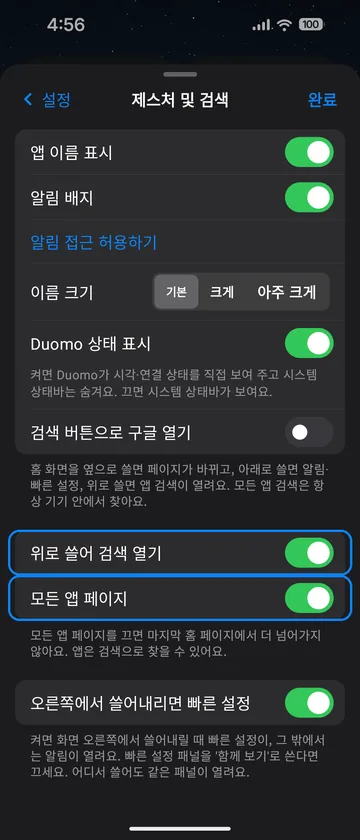
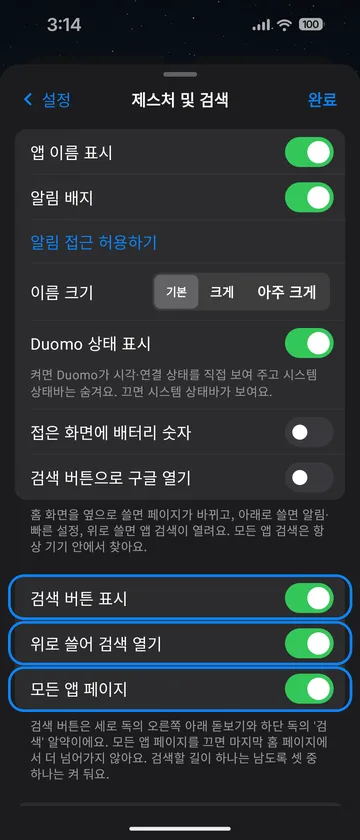
FAQ 1.0.11 기준 정리, 이전 업데이트 접기

Changed region(s): [[0.0, 0.4952, 1.0, 0.9286], [0.1222, 0.0, 0.2444, 0.0619]]

diff --git a/index.html b/index.html
@@ -190,6 +190,10 @@
   .update .ask a { color: var(--accent-soft); }
   /* 펼친 화면(가로) + 접은 화면(세로) 한 쌍: 높이를 맞춰 나란히 */
   .shots.pair { grid-template-columns: 3.1fr 1fr; align-items: end; }
+  .older-updates { margin-top: 14px; }
+  .older-updates > summary { list-style: none; cursor: pointer; text-align: center; padding: 14px; font-size: 15px; font-weight: 600; color: var(--accent-soft); }
+  .older-updates > summary::-webkit-details-marker { display: none; }
+  .older-updates[open] > summary { color: var(--muted); }
   .faq-group { max-width: 920px; margin: 34px 0 0; font-size: 15px; font-weight: 700; color: var(--muted); letter-spacing: .02em; }
   .faq-group + details.update { margin-top: 12px; }
   .update.faq summary .title { white-space: normal; font-size: clamp(15px, 2vw, 18px); }
@@ -552,6 +556,8 @@
         </div>
       </details>
 
+      <details class="older-updates">
+        <summary><span data-l="ko">이전 업데이트 보기 (1.0.2 ~ 1.0.7)</span><span data-l="en">Earlier updates (1.0.2 – 1.0.7)</span></summary>
       <details class="update" id="v1-0-7">
         <summary><span class="title"><span data-l="ko">독 폴더 · 왼쪽 독, 모든 앱 켜고 끄기</span><span data-l="en">Dock folders, left dock, the All Apps page on or off</span></span><span class="date"><span data-l="ko">26년 10월 2일</span><span data-l="en">Oct 2, 2026</span></span></summary>
         <div class="update-body">
@@ -581,7 +587,7 @@
         </div>
         </div>
       </details>
-      <details class="update" id="v1-0-6">
+        <details class="update" id="v1-0-6">
         <summary><span class="title"><span data-l="ko">홈에서 바로 간격 조절, 둘러보기에서 독 위치 고르기</span><span data-l="en">Adjust spacing right on Home, pick the dock position in the tour</span></span><span class="date"><span data-l="ko">26년 10월 2일</span><span data-l="en">Oct 2, 2026</span></span></summary>
         <div class="update-body">
         <p class="update-meta"><span class="ver">1.0.6</span><span><span data-l="ko">2026년 10월 2일</span><span data-l="en">October 2, 2026</span></span><span class="status"><span data-l="ko">테스터에게 배포됨</span><span data-l="en">Rolled out to testers</span></span></p>
@@ -608,7 +614,7 @@
         </div>
       </details>
 
-      <details class="update" id="v1-0-5">
+        <details class="update" id="v1-0-5">
         <summary><span class="title"><span data-l="ko">알림 숫자 배지, 사라지던 위젯 수정</span><span data-l="en">Notification count badges, disappearing widgets fixed</span></span><span class="date"><span data-l="ko">26년 10월 1일</span><span data-l="en">Oct 1, 2026</span></span></summary>
         <div class="update-body">
         <p class="update-meta"><span class="ver">1.0.5</span><span><span data-l="ko">2026년 10월 1일</span><span data-l="en">October 1, 2026</span></span><span class="status"><span data-l="ko">테스터에게 배포됨</span><span data-l="en">Rolled out to testers</span></span></p>
@@ -627,7 +633,7 @@
         </div>
       </details>
 
-      <details class="update" id="v1-0-4">
+        <details class="update" id="v1-0-4">
         <summary><span class="title"><span data-l="ko">접은 화면 · 펼친 화면 배치, 함께 또는 따로</span><span data-l="en">Folded and unfolded layouts, shared or separate</span></span><span class="date"><span data-l="ko">26년 10월 1일</span><span data-l="en">Oct 1, 2026</span></span></summary>
         <div class="update-body">
         <p class="update-meta"><span class="ver">1.0.4</span><span><span data-l="ko">2026년 10월 1일</span><span data-l="en">October 1, 2026</span></span><span class="status"><span data-l="ko">테스터에게 배포됨</span><span data-l="en">Rolled out to testers</span></span></p>
@@ -650,7 +656,7 @@
         </div>
       </details>
 
-      <details class="update" id="v1-0-3">
+        <details class="update" id="v1-0-3">
         <summary><span class="title"><span data-l="ko">펼친 화면 하단 독, 폴더에 앱 검색해서 넣기</span><span data-l="en">Bottom dock unfolded, search to add apps to folders</span></span><span class="date"><span data-l="ko">26년 10월 1일</span><span data-l="en">Oct 1, 2026</span></span></summary>
         <div class="update-body">
         <p class="update-meta"><span class="ver">1.0.3</span><span><span data-l="ko">2026년 10월 1일</span><span data-l="en">October 1, 2026</span></span><span class="status"><span data-l="ko">테스터에게 배포됨</span><span data-l="en">Rolled out to testers</span></span></p>
@@ -671,7 +677,7 @@
         </div>
       </details>
 
-      <details class="update" id="v1-0-2">
+        <details class="update" id="v1-0-2">
         <summary><span class="title"><span data-l="ko">펼친 화면 간격과 독을 다시 맞췄어요</span><span data-l="en">Reworked unfolded spacing and the dock</span></span><span class="date"><span data-l="ko">26년 10월 1일</span><span data-l="en">Oct 1, 2026</span></span></summary>
         <div class="update-body">
         <p class="update-meta"><span class="ver">1.0.2</span><span><span data-l="ko">2026년 10월 1일</span><span data-l="en">October 1, 2026</span></span><span class="status"><span data-l="ko">테스터에게 배포됨</span><span data-l="en">Rolled out to testers</span></span></p>
@@ -687,6 +693,7 @@
         </ul>
 
         </div>
+      </details>
       </details>
     </div>
   </section>
@@ -728,7 +735,7 @@
       <details class="update faq" id="faq-resize-widget">
         <summary><span class="title"><span data-l="ko">위젯 크기는 어떻게 바꾸나요?</span><span data-l="en">How do I resize a widget?</span></span></summary>
         <div class="update-body">
-          <p><span data-l="ko">위젯을 길게 눌렀다 떼면 메뉴가 나와요. <b>크기 및 위치</b>에서 작게·중간·크게·전체를 고르거나, <b>홈 화면에서 크기 조절</b>을 눌러 모서리를 끌어 주세요.</span><span data-l="en">Touch and hold the widget, then release to open its menu. In <b>Size &amp; position</b>, pick a preset size or tap <b>Resize on Home Screen</b> and drag the corner.</span></p>
+          <p><span data-l="ko">위젯을 길게 눌렀다 떼면 메뉴가 나와요. <b>크기 및 위치</b>에서 작게·중간·크게·전체를 고르거나, <b>홈 화면에서 크기 조절</b>을 눌러 모서리를 끌어 주세요. 1×1 위젯은 1.0.10부터 앱 아이콘과 같은 크기로 나와요.</span><span data-l="en">Touch and hold the widget, then release to open its menu. In <b>Size &amp; position</b>, pick a preset size or tap <b>Resize on Home Screen</b> and drag the corner. From 1.0.10, 1×1 widgets are drawn at app icon size.</span></p>
           <figure class="faq-shot"><img src="assets/faq/faq-resize-widget.webp" width="360" height="840" loading="lazy" alt=""><figcaption><span data-l="ko">위젯 크기 바꾸기</span><span data-l="en">Resizing a widget</span></figcaption></figure>
         </div>
       </details>
@@ -737,6 +744,12 @@
         <div class="update-body">
           <p><span data-l="ko">돼요(1.0.8부터). 위젯을 눌러 사진을 여러 장 고르고, 다시 눌러 주기(1시간마다 · 하루마다 · 홈에 올 때마다)를 정하면 자동으로 바뀌어요. 순서는 고른 순서대로예요.</span><span data-l="en">Yes (from 1.0.8). Tap the widget and pick several photos, then tap it again to choose how often they change: every hour, every day, or each time you come home. They rotate in the order you picked.</span></p>
           <figure class="faq-shot"><img src="assets/faq/faq-photo-widget.webp" width="360" height="840" loading="lazy" alt=""><figcaption><span data-l="ko">사진 여러 장 · 자동 변경</span><span data-l="en">Several photos, auto change</span></figcaption></figure>
+        </div>
+      </details>
+      <details class="update faq" id="faq-widget-missing">
+        <summary><span class="title"><span data-l="ko">찾는 위젯이 목록에 없어요. (예: 버즈 위젯)</span><span data-l="en">A widget I want isn't in the list (e.g. the Buds widget).</span></span></summary>
+        <div class="update-body">
+          <p><span data-l="ko">1.0.10부터 위젯 검색에 한글로 써도 영어 이름 위젯이 함께 나와요(예: 버즈 → Buds). Duomo는 안드로이드가 주는 위젯 목록을 걸러 내지 않아서, 그래도 안 보이면 그 앱(주로 삼성 기본 앱)이 다른 런처에는 위젯을 내주지 않는 경우예요.</span><span data-l="en">From 1.0.10, searching in Korean also finds widgets with English names (e.g. 버즈 → Buds). Duomo doesn't filter the widget list Android provides, so if it still isn't there, that app (often a Samsung app) doesn't offer the widget to other launchers.</span></p>
         </div>
       </details>
       <details class="update faq" id="faq-widget-reconnect">
@@ -756,7 +769,7 @@
       <details class="update faq" id="faq-dock">
         <summary><span class="title"><span data-l="ko">독을 왼쪽이나 아래에 둘 수 있나요? 독에 폴더는요?</span><span data-l="en">Can I move the dock to the left or bottom? Folders in the dock?</span></span></summary>
         <div class="update-body">
-          <p><span data-l="ko">설정 › 홈 화면 › 도크에서 위치를 고를 수 있어요. 폴더를 독으로 끌어다 놓으면 독에도 폴더를 둘 수 있어요.</span><span data-l="en">Choose the position under Settings › Home Screen › Dock. Drag a folder onto the dock to keep it there.</span></p>
+          <p><span data-l="ko">설정 › 홈 화면 › 도크에서 위치를 고를 수 있어요. 폴더를 독으로 끌어다 놓으면 독에도 폴더를 둘 수 있어요. 폭이 넓은 커버 화면(폴드8 등)에서 하단 독을 쓸 때는 설정 › 홈 화면 › 도크의 <b>화면 폭 전체 쓰기</b>로 격자를 끝까지 넓힐 수 있어요.</span><span data-l="en">Choose the position under Settings › Home Screen › Dock. Drag a folder onto the dock to keep it there. On wide cover screens (e.g. Fold8) with the bottom dock, <b>Use the full screen width</b> under Settings › Home screen › Dock widens the grid to the edges.</span></p>
           <figure class="faq-shot"><img src="assets/faq/shot-dock.webp" width="360" height="840" loading="lazy" alt=""><figcaption><span data-l="ko">설정 › 홈 화면 레이아웃 › 도크</span><span data-l="en">Settings › Home Screen › Dock</span></figcaption></figure>
         </div>
       </details>
@@ -765,6 +778,12 @@
         <div class="update-body">
           <p><span data-l="ko">기본 설정은 접은 화면과 펼친 화면이 같은 배치를 함께 쓰는 방식이에요. 따로 쓰려면 설정 › 홈 화면 › <b>화면마다 따로 쓰기</b>를 골라 주세요. (위젯과 폴더는 따로 쓰기에서도 함께 써요.)</span><span data-l="en">By default the cover and unfolded screens share one layout. To keep them apart, choose <b>Keep separate layouts</b> under Settings › Home Screen. (Widgets and folders are still shared.)</span></p>
           <figure class="faq-shot"><img src="assets/faq/shot-layout-sync.webp" width="360" height="840" loading="lazy" alt=""><figcaption><span data-l="ko">설정 › 홈 화면 레이아웃</span><span data-l="en">Settings › Home Screen</span></figcaption></figure>
+        </div>
+      </details>
+      <details class="update faq" id="faq-recents-wallpaper">
+        <summary><span class="title"><span data-l="ko">최근 앱 화면에서 보이는 배경이 홈 배경과 달라요.</span><span data-l="en">The background behind recent apps is different from my home background.</span></span></summary>
+        <div class="update-body">
+          <p><span data-l="ko">최근 앱 화면 뒤에는 런처 배경이 아니라 시스템 배경화면이 보여요. 설정 › 배경화면 및 모양의 런처 배경에서 사진을 고른 뒤 <b>시스템 배경화면에도 적용</b>을 누르면 같아져요(1.0.10부터).</span><span data-l="en">Recent apps shows the system wallpaper, not the launcher background. Pick a photo under Settings › Wallpaper &amp; Appearance › Launcher background and tap <b>Also set as system wallpaper</b> to match them (from 1.0.10).</span></p>
         </div>
       </details>
       <details class="update faq" id="faq-hide">
@@ -795,10 +814,16 @@
       </details>
       <h3 class="faq-group"><span data-l="ko">제스처 · 상태 표시</span><span data-l="en">Gestures & status</span></h3>
       <details class="update faq" id="faq-gestures">
-        <summary><span class="title"><span data-l="ko">위로 쓸어 검색이나 '모든 앱' 페이지를 끄고 싶어요.</span><span data-l="en">I want to turn off swipe-up search or the All Apps page.</span></span></summary>
+        <summary><span class="title"><span data-l="ko">검색 버튼이나 위로 쓸어 검색, '모든 앱' 페이지를 끄고 싶어요.</span><span data-l="en">I want to hide the search button, or turn off swipe-up search or the All Apps page.</span></span></summary>
         <div class="update-body">
-          <p><span data-l="ko">설정 › 제스처 및 검색에서 둘 다 켜고 끌 수 있어요. ('모든 앱'은 1.0.8까지 '앱 보관함'이라는 이름이었어요.)</span><span data-l="en">Both can be turned on or off under Settings › Gestures &amp; Search. (All Apps was called 'App Library' up to 1.0.8.)</span></p>
+          <p><span data-l="ko">설정 › 제스처 및 검색에서 <b>검색 버튼 표시</b>(세로 독 오른쪽 아래 돋보기와 하단 독의 '검색' 알약), <b>위로 쓸어 검색 열기</b>, <b>모든 앱 페이지</b>를 각각 끌 수 있어요(검색 버튼은 1.0.11부터). 앱을 찾을 길이 하나는 남도록 셋 중 하나는 꺼지지 않아요. ('모든 앱'은 1.0.8까지 '앱 보관함'이라는 이름이었어요.)</span><span data-l="en">Under Settings › Gestures &amp; Search you can turn off <b>Show search button</b> (the magnifier at the bottom right of the side dock and the Search pill above the bottom dock), <b>Swipe up to search</b> and <b>All Apps page</b> separately (the search button from 1.0.11). One of the three always stays on so you can still find apps. (All Apps was called 'App Library' up to 1.0.8.)</span></p>
           <figure class="faq-shot"><img src="assets/faq/shot-gestures.webp" width="360" height="840" loading="lazy" alt=""><figcaption><span data-l="ko">설정 › 제스처 및 검색</span><span data-l="en">Settings › Gestures &amp; Search</span></figcaption></figure>
+        </div>
+      </details>
+      <details class="update faq" id="faq-swipe-home">
+        <summary><span class="title"><span data-l="ko">위로 쓸었더니 검색 대신 첫 페이지로 가요.</span><span data-l="en">Swiping up takes me to the first page instead of opening search.</span></span></summary>
+        <div class="update-body">
+          <p><span data-l="ko">화면 맨 아래 가장자리에서 쓸면 안드로이드의 '홈으로' 제스처가 먼저 받아서, 런처는 홈 신호를 받고 첫 페이지로 돌아가요. 검색은 홈 화면 가운데쯤에서 위로 쓸어 주세요. 이건 시스템 동작이라 앱에서 바꿀 수 없어요.</span><span data-l="en">A swipe from the very bottom edge is taken by Android's 'go home' gesture first, so the launcher gets a home signal and returns to the first page. Swipe up from around the middle of the home screen to search. This is system behavior apps can't change.</span></p>
         </div>
       </details>
       <details class="update faq" id="faq-shade">
@@ -815,6 +840,13 @@
           <figure class="faq-shot"><img src="assets/faq/shot-status.webp" width="360" height="840" loading="lazy" alt=""><figcaption><span data-l="ko">설정 › 제스처 및 검색 (1.0.9)</span><span data-l="en">Settings › Gestures &amp; Search (1.0.9)</span></figcaption></figure>
         </div>
       </details>
+      <details class="update faq" id="faq-battery">
+        <summary><span class="title"><span data-l="ko">접은 화면에서도 배터리 숫자(%)를 보고 싶어요.</span><span data-l="en">I want to see the battery percentage on the cover screen.</span></span></summary>
+        <div class="update-body">
+          <p><span data-l="ko">1.0.11부터 설정 › 제스처 및 검색의 <b>접은 화면에 배터리 숫자</b>를 켜면 세로 독 상태 링 아래에 % 숫자가 나와요. 하단 독과 펼친 화면은 원래 숫자가 보여요.</span><span data-l="en">From 1.0.11, turn on <b>Battery percentage on the cover screen</b> under Settings › Gestures &amp; Search and the percentage appears under the status ring of the side dock. The bottom dock and the unfolded screen already show it.</span></p>
+          <figure class="faq-shot"><img src="assets/faq/shot-battery.webp" width="360" height="840" loading="lazy" alt=""><figcaption><span data-l="ko">설정 › 제스처 및 검색</span><span data-l="en">Settings › Gestures &amp; Search</span></figcaption></figure>
+        </div>
+      </details>
       <details class="update faq" id="faq-5g">
         <summary><span class="title"><span data-l="ko">5G 표시가 되나요?</span><span data-l="en">Does it show 5G?</span></span></summary>
         <div class="update-body">
@@ -828,6 +860,12 @@
         </div>
       </details>
       <h3 class="faq-group"><span data-l="ko">기타</span><span data-l="en">Other</span></h3>
+      <details class="update faq" id="faq-open-effect">
+        <summary><span class="title"><span data-l="ko">앱을 열 때 아이콘에서 커지는 효과가 안 나와요.</span><span data-l="en">Apps don't zoom out of their icons when I open them.</span></span></summary>
+        <div class="update-body">
+          <p><span data-l="ko">삼성 One UI는 기본 런처가 아닌 런처에서 앱을 열 때 자체 전환 효과만 써요. 1.0.10에서 여러 방식을 실제 폴드에서 시험했지만 모두 같은 기본 효과로 바뀌어서, 앱에서 바꿀 수 없어요.</span><span data-l="en">Samsung One UI uses its own transition when apps are opened from a launcher other than the built-in one. We tried several approaches on a real Fold in 1.0.10 and all were replaced by the same default, so this can't be changed by an app.</span></p>
+        </div>
+      </details>
       <details class="update faq" id="faq-live-icons">
         <summary><span class="title"><span data-l="ko">시계·캘린더 아이콘이 움직이지 않아요.</span><span data-l="en">The clock and calendar icons don't move.</span></span></summary>
         <div class="update-body">
